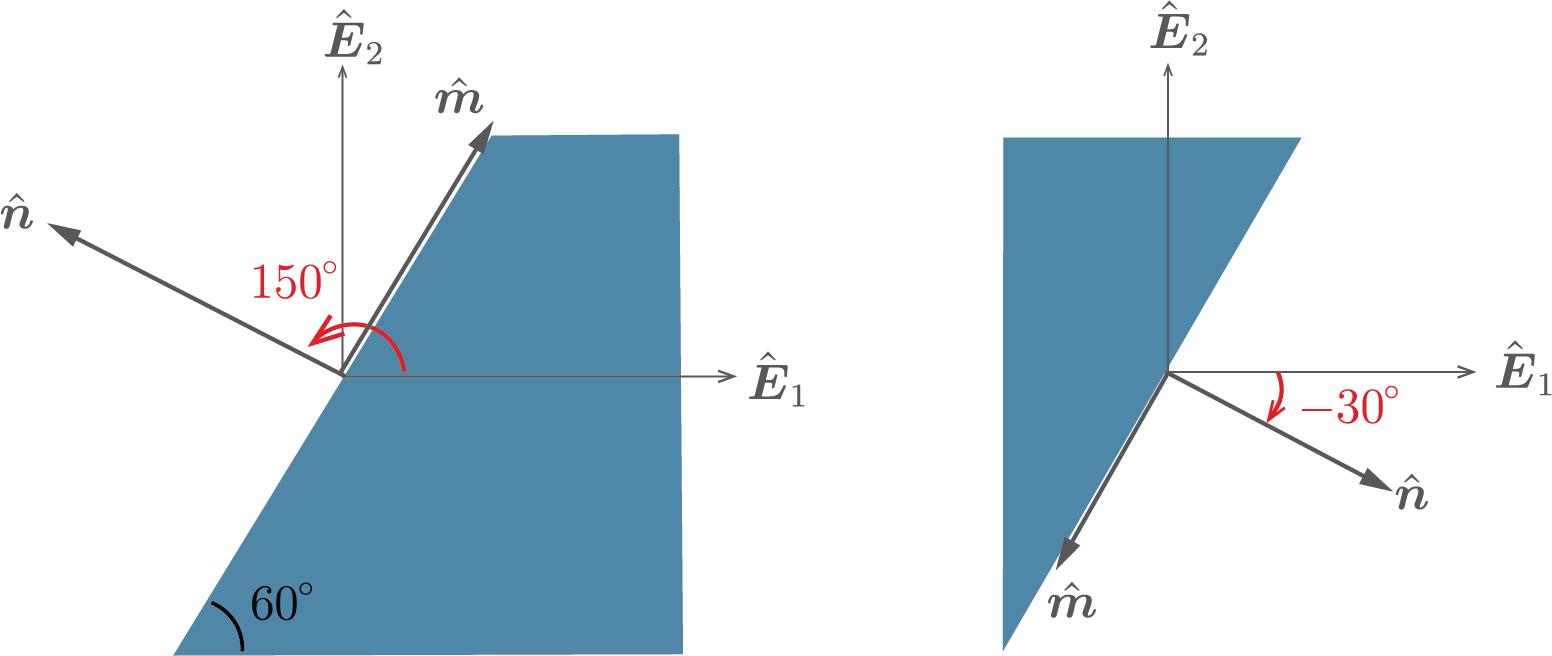
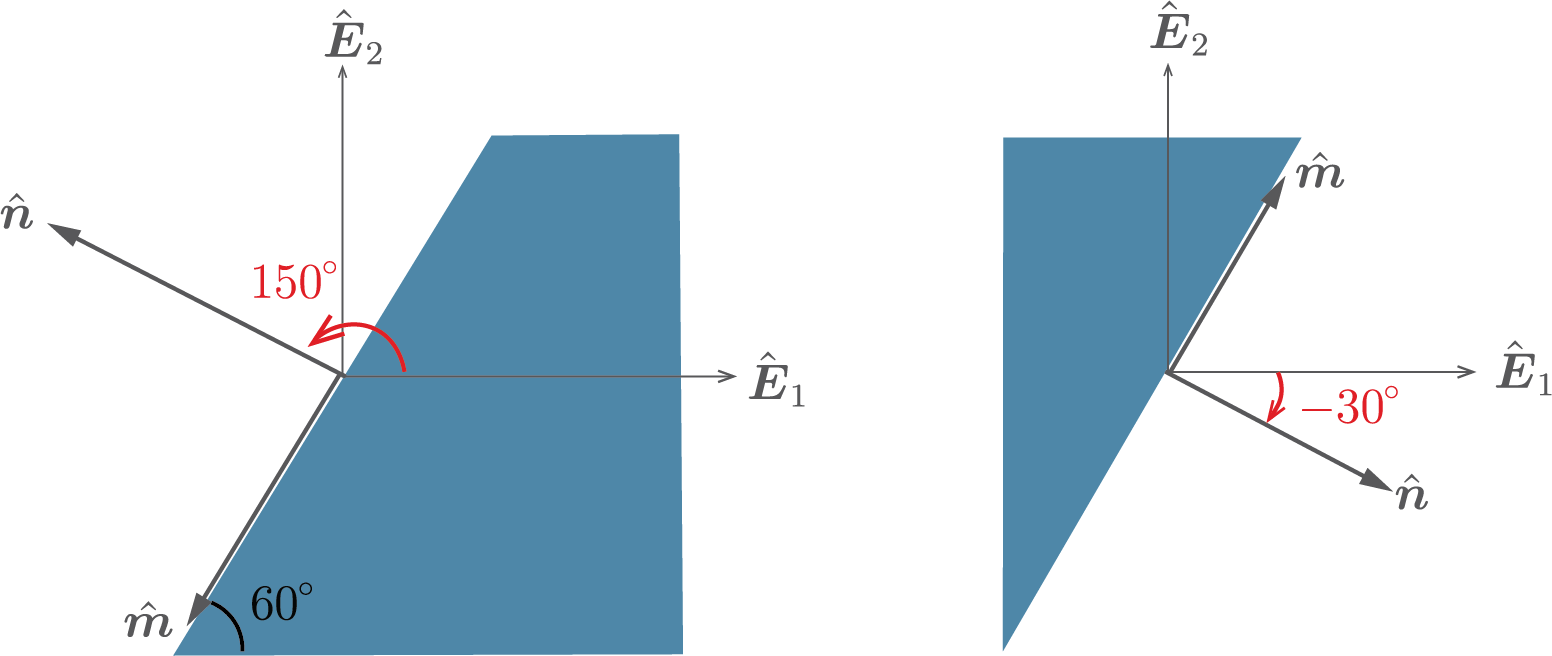
HW6 sol update

diff --git a/Homeworks/Homework6-Solution.md b/Homeworks/Homework6-Solution.md
@@ -95,19 +95,19 @@ $$
 where $\hat{\boldsymbol{m}}$ is defined uniquely for each surface as
 
 $$
-\hat{\boldsymbol{m}}=\hat{\boldsymbol{n}}\times\hat{\boldsymbol{E}}_3
+\hat{\boldsymbol{m}}=\hat{\boldsymbol{E}}_3\times\hat{\boldsymbol{n}}
 $$
 
 Following this definition, we get that
 
 $$
-\hat{\boldsymbol{m}}=-1/2\hat{\boldsymbol{E_1}}-\sqrt{3}/2\hat{\boldsymbol{E_2}}
+\hat{\boldsymbol{m}}=1/2\hat{\boldsymbol{E_1}}+\sqrt{3}/2\hat{\boldsymbol{E_2}}
 $$
 
 Then, taking the dot product,
 
 $$
-\tau(\phi)=\boldsymbol{t_s}\cdot\hat{\boldsymbol{m}}=2.28...~\rm{MPa}
+\tau(\phi)=\boldsymbol{t_s}\cdot\hat{\boldsymbol{m}}=-2.28...~\rm{MPa}
 $$
 
 <u>Different perspective (1)</u>
@@ -294,6 +294,10 @@ $$
 
 You can consider either plane of $\phi=165^\circ$ or $\phi=-15^\circ$ in solving the problem. However, you would also get the right answer if you used $\phi=75^\circ$ or $\phi=-165^\circ$, just because planes of minimum shear stress are at every $90^\circ$.
 
+<br/>
+<br/>
+
+
 
 <u> Problem 3 (10 pts total) </u>
 
@@ -310,7 +314,7 @@ Two wooden members of $80 \times 120~\rm mm$ uniform rectangular cross section a
 
 <br/>
     <center>
-     <img src="HW6-Solution-fig4.png" alt="drawing" width="400"/>
+     <img src="HW6-Solution-fig4.png" alt="drawing" width="800"/>
     </center>
 <br/>
 
@@ -330,7 +334,7 @@ $$
 Hence, the magnitude of the normal stress is
 
 $$
-\sigma=\boldsymbol{t}\cdot \hat{\boldsymbol{n}}=440\sin{\beta}=186 ~\rm{kPa}
+\sigma=\boldsymbol{t}\cdot \hat{\boldsymbol{n}}=440\sin{\beta}=186 ~\rm{kPa} 
 
 $$
  
@@ -367,24 +371,68 @@ $$
 where $\hat{\boldsymbol{m}}$ is defined uniquely for each surface as
 
 $$
-\hat{\boldsymbol{m}}=\hat{\boldsymbol{n}}\times\hat{\boldsymbol{E}}_3
+\hat{\boldsymbol{m}}=\hat{\boldsymbol{E}}_3\times\hat{\boldsymbol{n}}
 $$
 
 Following this definition, we get that
 
 $$
-\hat{\boldsymbol{m}}=\cos{\beta}\hat{\boldsymbol{E}}_1-\sin{\beta}\hat{\boldsymbol{E}}_2
+\hat{\boldsymbol{m}}=-\cos{\beta}\hat{\boldsymbol{E}}_1+\sin{\beta}\hat{\boldsymbol{E}}_2
 $$
 
 Then, taking the dot product,
 
 $$
-\tau(\phi)=\boldsymbol{t_s}\cdot\hat{\boldsymbol{m}}=398~\rm{kPa}
+\tau(\phi)=\boldsymbol{t_s}\cdot\hat{\boldsymbol{m}}=-398~\rm{kPa}
 $$
 
 
-</br>
-</br>
+<u>Different perspective </u>
+
+<br/>
+    <center>
+     <img src="HW6-Solution-fig4-2-01.png" alt="drawing" width="700"/>
+    </center>
+<br/> 
+
+You can also start by finding the stress tensor components first. It is apparent that $\sigma_{12}=0$ and $\sigma_{22}=0$. 
+We have for $\sigma_{11}$
+
+$$
+\sigma_{11}=\frac{P}{A}=\frac{10~\rm{kN}}{(120~\rm{mm})(80~\rm{mm})}=1.041...~\rm{MPa}
+$$
+
+where $A$ is the cross-sectional area of the member perpendicular to $\hat{\boldsymbol{E}}_1$.
+You can then utilize the equations
+
+$$
+\begin{align*}
+\sigma(\phi)&=\frac{\sigma_{11}+\sigma_{22}}{2}+\frac{\sigma_{11}-\sigma_{22}}{2}\cos{(2\phi)}+\sigma_{12}\sin{(2\phi)}\\
+\tau(\phi)&=-\frac{\sigma_{11}-\sigma_{22}}{2}\sin{(2\phi)}+\sigma_{12}\cos{(2\phi)}\\
+\end{align*}
+$$
+
+which in this case reduces to
+
+$$
+\begin{align*}
+\sigma(\phi)&=\frac{\sigma_{11}}{2}(1+\cos{(2\phi)})\\
+\tau(\phi)&=-\frac{\sigma_{11}}{2}\sin{(2\phi)}\\
+\end{align*}
+$$
+
+Choosing $\phi=90^\circ-\beta=65^\circ$,
+
+$$
+\sigma(65^\circ)=186~\rm{kPa}
+$$
+
+$$
+\tau(=65^\circ)=-398~\rm{kPa}
+$$
+
+<br/>
+<br/>
 
 <u> Problem 4 (10 pts total) </u>
 
@@ -424,8 +472,11 @@ $$
 we can write that
 
 $$
-\sigma=\boldsymbol{t}\cdot\hat{\boldsymbol{n}}=-t\cos{\beta}\\
-\tau=\boldsymbol{t}\cdot\hat{\boldsymbol{m}}=t\sin{\beta}
+\sigma=\boldsymbol{t}\cdot\hat{\boldsymbol{n}}=-t\cos{\beta} \tag{$\star$}
+$$
+
+$$
+\tau=\boldsymbol{t}\cdot\hat{\boldsymbol{m}}=t\sin{\beta} \tag{$\star\star$}
 $$
 
 Plugging in $\sigma=-15~\rm{MPa}$ and $\tau=5~\rm{MPa}$ and solving for $t, \beta$, 
@@ -437,9 +488,126 @@ t&=5\sqrt{10}~\rm{MPa}=15.8..~\rm{MPa}\\
 \end{align*}
 $$
 
-The maximum compressive stress is simply $t=15.8~\rm{MPa}$.
+We then get that 
+
+$$
+P=tA
+$$
+
+The compression is maximum on a cross section perpendicular to $\hat{\boldsymbol{E}}_2$, whose area is $A\cos{\beta}$
+
+$$
+\frac{P}{A\cos{\beta}}=\frac{t}{\cos{\beta}}=16.7~\rm{MPa}
+$$
 
 
+<u>Different perspective (1) </u>
+
+Take $\hat{\boldsymbol{n}}$ and $\hat{\boldsymbol{m}}$ as shown. Note that this follows the notation introduced in class, where $\hat{\boldsymbol{m}}=\hat{\boldsymbol{E}}_3 \times \hat{\boldsymbol{n}}$, where as the orientation of $\hat{\boldsymbol{m}}$ given originally in the problem <u>does not</u>.
+
+<br/>
+    <center>
+     <img src="HW6-Solution-fig5-ver2.png" alt="drawing" width="200"/> 
+    </center>
+<br/>
+
+Maximum compression is $\sigma_{22}$. We can say that $\sigma_{11}=\sigma_{12}=0$ so that
+
+
+$$
+\begin{align*}
+\sigma(\phi)&=\frac{\sigma_{11}+\sigma_{22}}{2}+\frac{\sigma_{11}-\sigma_{22}}{2}\cos{(2\phi)}+\sigma_{12}\sin{(2\phi)}\\
+\tau(\phi)&=-\frac{\sigma_{11}-\sigma_{22}}{2}\sin{(2\phi)}+\sigma_{12}\cos{(2\phi)}\\
+\end{align*}
+$$
+
+reduces to
+
+$$
+\begin{align*}
+\sigma(\phi)&=\frac{\sigma_{22}}{2}(1+\cos{(2\phi)})\\
+\tau(\phi)&=\frac{\sigma_{22}}{2}\sin{(2\phi)}\\
+\end{align*}
+$$
+
+Solving the following system of equations for $\sigma_{22}$ and $\beta$ (note that you have to take $=\tau=-5~\rm{MPa}$ here to stay consistent with the how $\hat{\boldsymbol{m}}$ is oriented),
+
+$$
+\begin{cases}
+\sigma(\dfrac{\pi}{2}-\beta)=\dfrac{\sigma_{22}}{2}\left(1+\cos{(2(\dfrac{\pi}{2}-\beta))}\right)=-15~\rm{MPa}\\\\
+\tau(\dfrac{\pi}{2}-\beta)=\dfrac{\sigma_{22}}{2}\sin{(2(\dfrac{\pi}{2}-\beta))}=~\rm{-5MPa}\\
+\end{cases}
+$$
+
+we get 
+
+$$
+\beta=18.4..^\circ
+$$ 
+
+$$
+\sigma_{22}=-16.7~\rm{MPa}
+$$
+
+<u>Different perspective (2) </u>
+
+<br/>
+    <center>
+     <img src="HW6-Solution-fig5-ver2.png" alt="drawing" width="200"/> 
+    </center>
+<br/>
+
+Or you can start by constructing a stress tensor as
+
+$$
+[\boldsymbol{\sigma}]=
+\begin{bmatrix}
+0 & 0\\
+0 & \sigma_{22} \\
+\end{bmatrix}
+$$
+
+With
+
+$$
+[\hat{\boldsymbol{n}}]=
+\begin{bmatrix}
+\cos{(\dfrac{\pi}{2}-\beta)}\\\\
+\sin{(\dfrac{\pi}{2}-\beta)}
+\end{bmatrix},~~~
+
+[\hat{\boldsymbol{m}}]=
+\begin{bmatrix}
+-\sin{(\dfrac{\pi}{2}-\beta)}\\\\
+\cos{(\dfrac{\pi}{2}-\beta)}
+\end{bmatrix} \\
+$$
+
+you get that the traction is
+
+$$
+[\boldsymbol{t}(\hat{\boldsymbol{n}})]=[\boldsymbol{\sigma}][\hat{\boldsymbol{n}}]=\begin{bmatrix}0\\\sigma_{22}\sin{(\dfrac{\pi}{2}-\beta)}\end{bmatrix}
+$$
+
+
+It follows then that
+
+$$
+\begin{cases}
+\sigma=\boldsymbol{t}(\hat{\boldsymbol{n}})\cdot \hat{\boldsymbol{n}}=\sigma_{22} \sin^2{(\dfrac{\pi}{2}-\beta)}=-15~\rm{MPa}\\\\
+\tau=\boldsymbol{t}(\hat{\boldsymbol{n}})\cdot \hat{\boldsymbol{m}}=\sigma_{22}  \sin{(\dfrac{\pi}{2}-\beta)}\cos{(\dfrac{\pi}{2}-\beta)}=-5~\rm{MPa}
+\end{cases}
+$$
+
+and you can solve for $\beta, \sigma_{22}$ as
+
+$$
+\beta=18.4..^\circ
+$$ 
+
+$$
+\sigma_{22}=-16.7~\rm{MPa}
+$$
 
 <br/>
 
